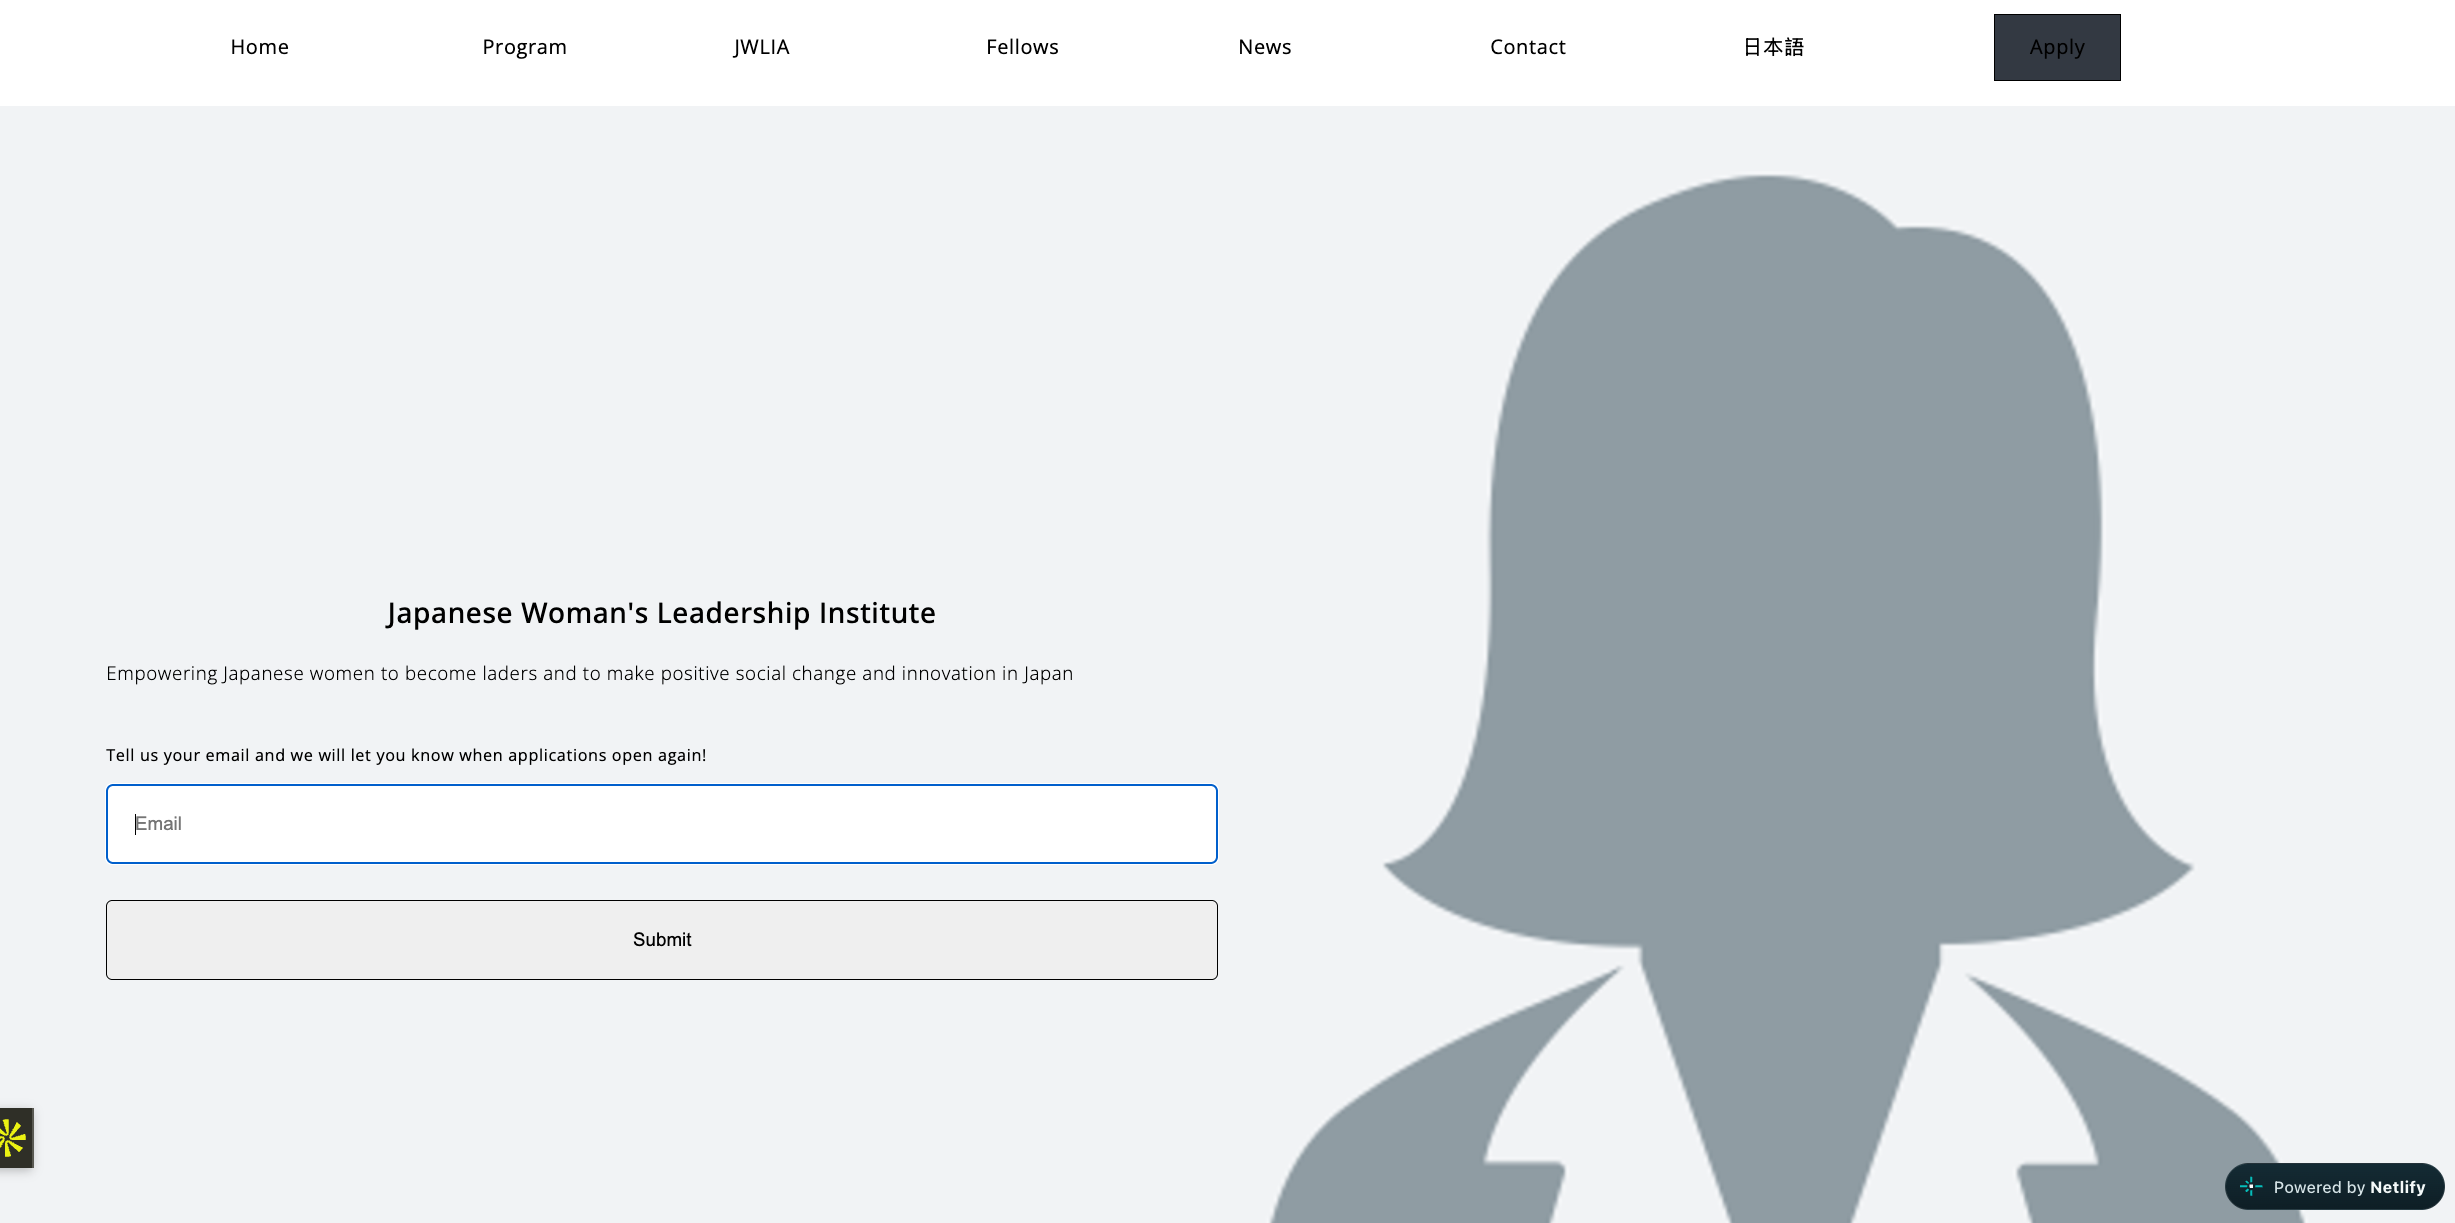
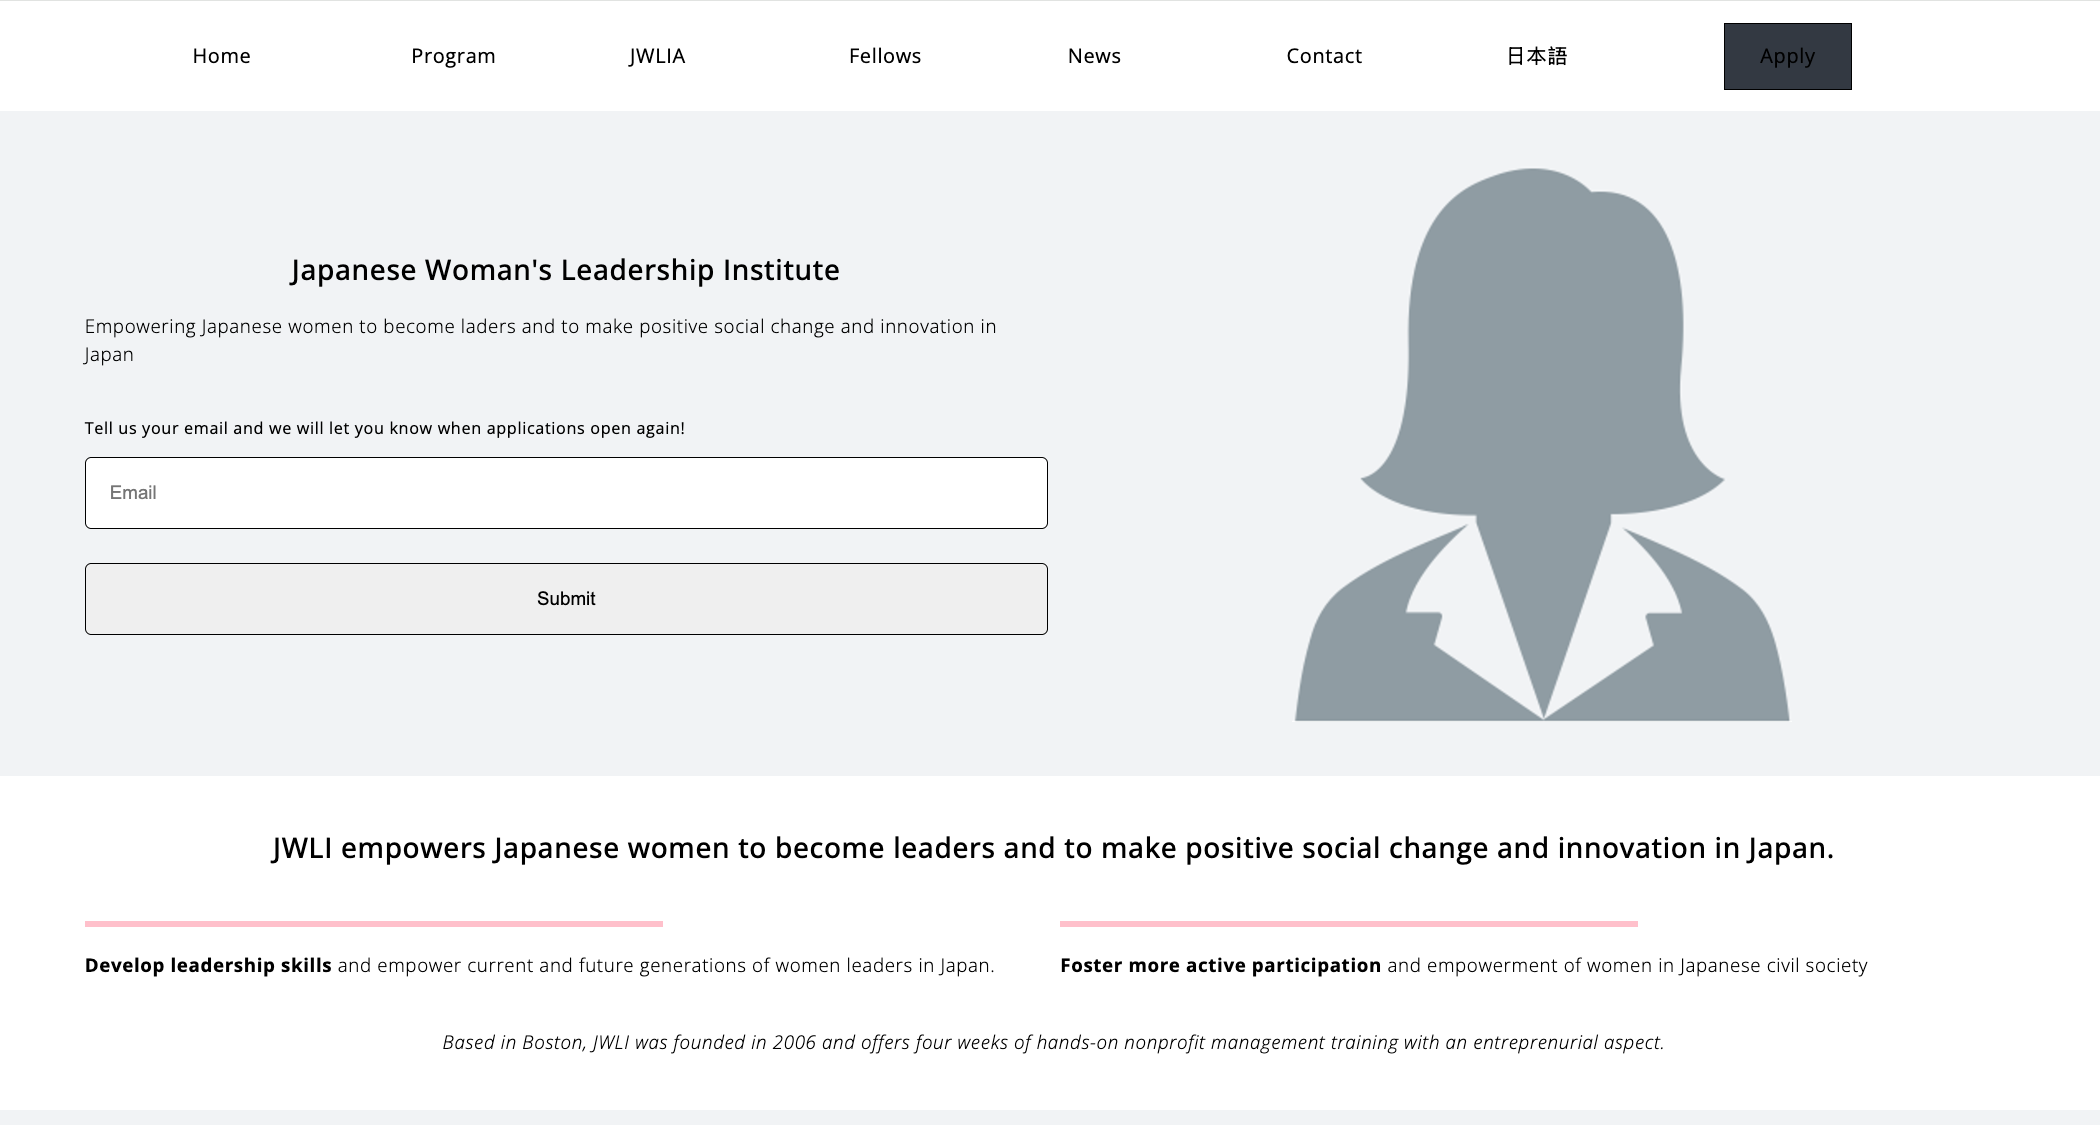
updated project

diff --git a/index.html b/index.html
@@ -47,7 +47,7 @@
 				</div>
 			</section>
 			<section class="boxRight">
-				<img src="Assets/woman.png" alt="JWL Logo">
+				<img id="makeLarge" src="Assets/woman.png" alt="JWL Logo">
 			</section>
 		</section>
 		<section class="secondBigSection">

diff --git a/css/style.css b/css/style.css
@@ -544,3 +544,10 @@ footer{
   display: block;
   margin: 0 auto;
 }
+
+#makeLarge{
+  width: 400px;
+  height: auto;
+  display: block;
+  margin: 0 auto;
+}
